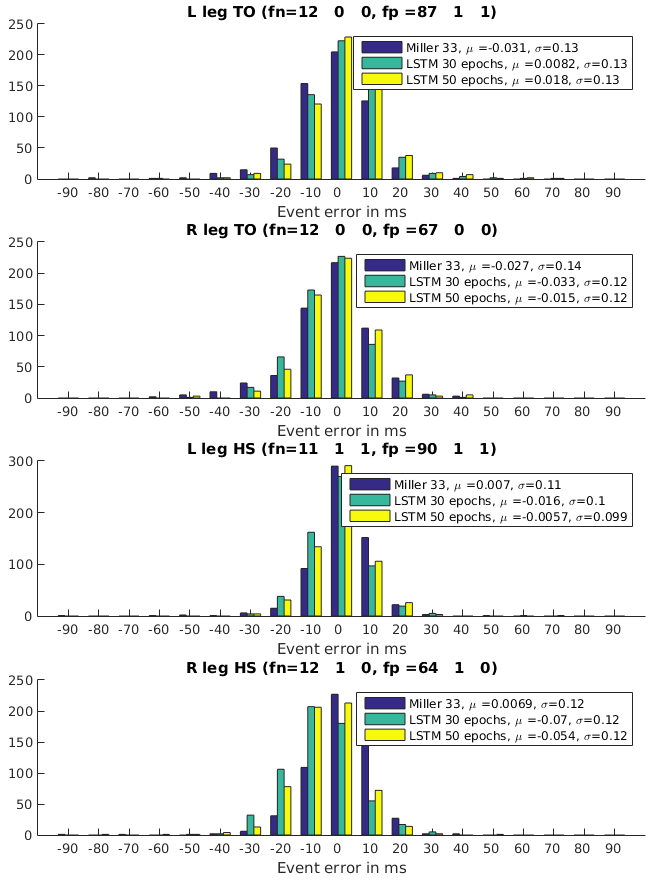
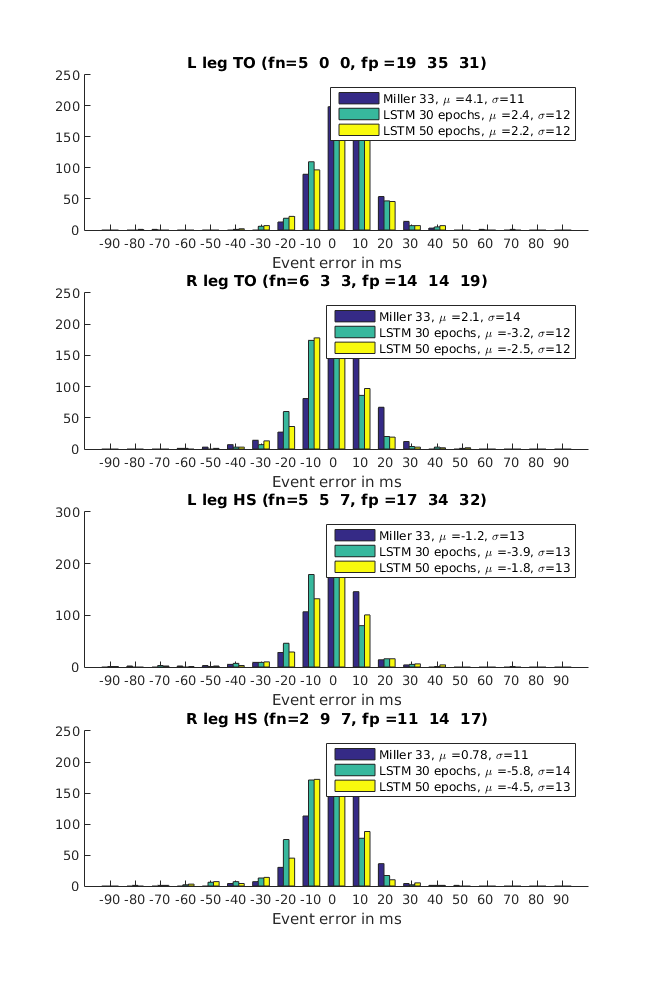
Modified figs

diff --git a/paper/paper.tex b/paper/paper.tex
@@ -14,6 +14,7 @@
 \usepackage{enumitem}
 \usepackage{lipsum}
 \usepackage{url}
+\usepackage{svg}
 
 \setlist[enumerate]
 {nolistsep}
@@ -373,7 +374,8 @@ Once we settled on parameters for our network, we trained it for 100 epochs and 
 
 \begin{figure}[H]
  \centering
- \includegraphics[scale=.31]{./figures/Test1_1Train1_2Compare.png}
+ \includegraphics[scale=.5]{./figures/Test1_1Train1_2Compare.png}
+ % \includesvg[scale=.31]{./figures/Test1_1Train1_2Compare.svg}
  % Test1_1Train1_2Compare.png: 0x0 pixel, 300dpi, 0.00x0.00 cm, bb=
  \caption{Comparison of Miller vs. LSTM network for various training intervals, for dataset 1.}
  \label{fig:halfAndHalfTrials}
@@ -385,7 +387,8 @@ The second dataset was designed to assess how well the methods generalize to new
 
 \begin{figure}[H]
  \centering
- \includegraphics[scale=.4]{./figures/Test2_2Train2_1Compare.png}
+ \includegraphics[scale=.5]{./figures/Test2_1Train2_2Compare.png}
+  %\includesvg[scale=.4]{./figures/Test2_2Train2_1Compare.svg}
  % Test1_1Train1_2Compare.png: 0x0 pixel, 300dpi, 0.00x0.00 cm, bb=
  \caption{Comparison of Miller vs. LSTM network for various training intervals, for dataset 2.}
  \label{fig:halfAndHalfUsers}
@@ -394,7 +397,7 @@ The second dataset was designed to assess how well the methods generalize to new
 \section{Conclusion and Future Work}
 \label{sec:Conclusion and Future Work}
 \subsection{Conclusions}
-The results from our initial implementation of the LSTM network are promising. Compared to the baseline methods we used for comparison, we achieved less confusion (false positive and false negative rate) and similar or better accuracy, measured through bias and quadratic error. This is
+The results from our initial implementation of the LSTM network are very encouraging. Compared to the baseline methods we used for comparison, we achieved less confusion (false positive and false negative rate) and similar or better accuracy, measured through bias and quadratic error. According to \cite{Miller2009},  is true that Miller's method was implemented in a slightly modified way (fixed window size), so that his resu
 
 \subsection{Future work}
 Although our results are promising and seem to improve the current state-of-the-art, there a few things that still can be done to assess and improve performance:

diff --git a/data/lstmResults/compareResults.m b/data/lstmResults/compareResults.m
@@ -39,7 +39,7 @@ hold on
 legStr={};
 for i=1:M
     aa(i,:,:)=squeeze(err{i,1}(:,1,:));
-    legStr{i}=[methodNames{i} ', \mu =' num2str(nanmean(aa(i,:)),2) ', \sigma=' num2str(nanstd(aa(i,:)),2)];
+    legStr{i}=[methodNames{i} ', \mu =' num2str(100*nanmean(aa(i,:)),2) ', \sigma=' num2str(100*nanstd(aa(i,:)),2)];
 end
 hist(aa(:,:)',[-.9:.1:.9])
 set(gca,'XTick',[-.9:.1:.9],'XTickLabel',[-90:10:90])
@@ -53,7 +53,7 @@ subplot(4,1,3)
 hold on
 for i=1:M
     aa(i,:,:)=squeeze(err{i,2}(:,1,:));
-    legStr{i}=[methodNames{i}  ', \mu =' num2str(nanmean(aa(i,:)),2) ', \sigma=' num2str(nanstd(aa(i,:)),2)];
+    legStr{i}=[methodNames{i} ', \mu =' num2str(100*nanmean(aa(i,:)),2) ', \sigma=' num2str(100*nanstd(aa(i,:)),2)];
 end
 hist(aa(:,:)',[-.9:.1:.9])
 set(gca,'XTick',[-.9:.1:.9],'XTickLabel',[-90:10:90])
@@ -67,7 +67,7 @@ subplot(4,1,2)
 hold on
 for i=1:M
     aa(i,:,:)=squeeze(err{i,1}(:,2,:));
-    legStr{i}=[methodNames{i}  ', \mu =' num2str(nanmean(aa(i,:)),2) ', \sigma=' num2str(nanstd(aa(i,:)),2)];
+    legStr{i}=[methodNames{i} ', \mu =' num2str(100*nanmean(aa(i,:)),2) ', \sigma=' num2str(100*nanstd(aa(i,:)),2)];
 end
 hist(aa(:,:)',[-.9:.1:.9])
 set(gca,'XTick',[-.9:.1:.9],'XTickLabel',[-90:10:90])
@@ -81,7 +81,7 @@ subplot(4,1,4)
 hold on
 for i=1:M
     aa(i,:,:)=squeeze(err{i,2}(:,2,:));
-    legStr{i}=[methodNames{i}  ', \mu =' num2str(nanmean(aa(i,:)),2) ', \sigma=' num2str(nanstd(aa(i,:)),2)];
+    legStr{i}=[methodNames{i} ', \mu =' num2str(100*nanmean(aa(i,:)),2) ', \sigma=' num2str(100*nanstd(aa(i,:)),2)];
 end
 hist(aa(:,:)',[-.9:.1:.9])
 set(gca,'XTick',[-.9:.1:.9],'XTickLabel',[-90:10:90])
